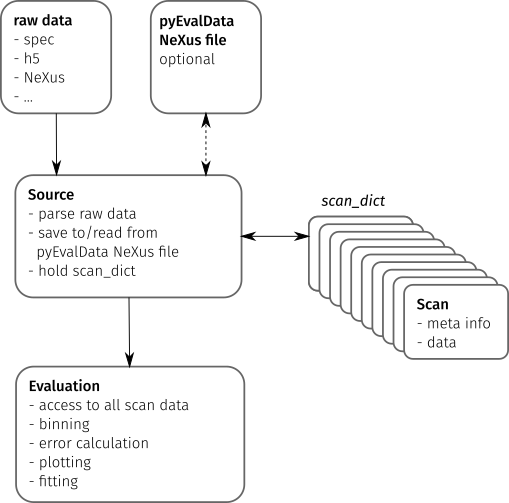
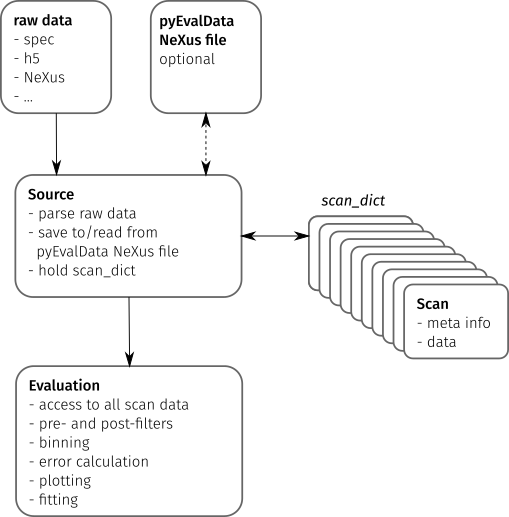
finish user guide

diff --git a/docs/source/conf.py b/docs/source/conf.py
@@ -60,6 +60,7 @@ templates_path = ['_templates']
 source_suffix = ['.rst', '.md']
 
 jupyter_execute_notebooks = "auto"
+execution_excludepatterns = ['*.ipynb']
 
 suppress_warnings = ['myst.mathjax']
 
@@ -84,7 +85,7 @@ pygments_style = 'sphinx'
 
 # -- Options for HTML output -------------------------------------------------
 
-html_title = 'pyEvalData<br/>' + version
+html_title = 'pyEvalData ' + version
 
 # The theme to use for HTML and HTML Help pages.  See the documentation for
 # a list of builtin themes.

diff --git a/pyEvalData/io/__init__.py b/pyEvalData/io/__init__.py
@@ -4,4 +4,4 @@ from .spec import Spec
 from .sardana_nexus import SardanaNeXus
 from .palxfel import PalH5
 
-__all__ = ['Source', 'Scan', 'Spec', 'SardanaNeXus', 'PalH5']
+__all__ = ['Scan', 'Source', 'Spec', 'SardanaNeXus', 'PalH5']

diff --git a/docs/source/user_guide.md b/docs/source/user_guide.md
@@ -2,18 +2,19 @@
 
 The idea of the `pyEvalData` module is to provide a simple but yet flexible way
 for reading and evaluating scientific data acquired at synchrotrons, FELs, or
-in the lab.  
-It is written with the intend to reuse available code as much as possible and
-to simplify the access to complex data formats and very general evaluation and 
-analysis procedures.  
-Generally, students and scientists should focus on data interpretation rather
-than on scripting the same routines again and again.
+in the lab. It is written with the intend to reuse available code as much as
+possible and to simplify the access to complex data formats and very general
+evaluation and analysis procedures. Generally, students and scientists should
+focus on data interpretation rather than on scripting the same routines again
+and again.
 
 Please read the upcoming section to understand the concept of reading and
 evaluating data with `pyEvalData` and how to extend/configure the module to
 your needs.
 
-It is also strongly recommended to follow the [examples](examples).
+It is also strongly recommended to follow the [examples](examples) which can
+also be run locally as `jupyter` notebooks. More details can be found in the
+[API documentation](api) of the individual sub-modules and classes.
 
 ## General Concepts
 
@@ -47,14 +48,15 @@ The actual data for a scan must be read by an independent method.
 The scan meta information and possibly also the scan data are stored in a
 `Scan` object, which provides a general but flexible interface between the
 `Source` and `Evaluation` classes. All `Scan` objects of a raw data source are
-stored in the `scan_dict` of the `Source` object.
+stored in the `scan_dict` attribute of the `Source` object.
 
 The `pyEvalData` modules provides several build-in `Source` classes, e.g. for 
 [spec](https://certif.com/content/spec/),
 [hdf5](https://www.hdfgroup.org/solutions/hdf5/), and
 [NeXus](https://www.nexusformat.org/) files. It can be easily extended by the
-user as explained in the [write your own `Source` section](#write-your-own-source).
-It is highly appreciated if such `Source` plugins are shared with the community.
+user as explained in the
+[write your own `Source` section](#write-your-own-source).
+It is highly appreciated if new `Source` plugins are shared with the community.
 
 In a future release, it will be possible to join two or multiple `Source`
 classes to create a `CompositeSource` object. This will be helpful to read
@@ -67,7 +69,7 @@ points in the scan file.
 
 A rather general feature of the `pyEvalData` module is the usage of a
 [NeXus](https://www.nexusformat.org/) file for converting the raw data in a
-common, structured, fast, and compressed data format. If enabled, the use can
+common, structured, fast, and compressed data format. If enabled, the user can
 benefit from:
 - a single data file containing all raw data - easy portability
 - high degree of compression - saves disk space
@@ -76,8 +78,97 @@ benefit from:
 
 ### Evaluation
 
-The `Evaluation` class requires any kind of `Source` on initialization.
+The `Evaluation` class requires any kind of `Source` on initialization. Hence
+it has access to all available scans in the `scan_dict`. In addition to all
+available meta information and raw data, it allows for defining additional
+`counters` by user-defined algebraic expression, which can also handle nested
+expressions. 
+
+Variable injection of pre- and post-filter for the raw and evaluated data,
+respectively, enables to simplify common procedures such as outlier removal,
+offset removal, or normalization. In a future release, the filters will be
+provided as dedicated objects inheriting from a base `Filter` class. It will be
+possible to concatenate multiple filters and again a set of common filters will
+be available in the `pyEvalData` module, while adding new user-defined filters
+is explained in the [write your own `Filter` section](#write-your-own-filter).
+
+Further features of the `Evaluation` is to handle the *averaging* of multiple
+scans. Here, the case of multiple datasets with different $x$-grids is a very
+common but yet complex scenario. The `Evaluation` class will **never**
+interpolate any data, because one should avoid the *generation* of data-points.
+Instead, the data will be always *binned* onto an automatically-generated or
+user-defined $x$-grid. The underlying algorithm take also care of the correct
+error-calculations and can handle error-propagation as well as
+[Possion statistics](https://en.wikipedia.org/wiki/Poisson_distribution)
+as required for 
+[single-photon-counting](https://en.wikipedia.org/wiki/Photon_counting) data.
+
+Finally, the evaluated data can be easily plotted as well as fitted based on
+the [`matplotlib`](https://matplotlib.org/) and
+[`lmfit`](https://lmfit.github.io/lmfit-py/) modules. As a very common task it
+is easily possible to do the plotting and fitting for a sequence of one or
+multiple scans in dependence of an external parameter, such as a temperature
+series or alike.
 
 ## Write your own `Source`
 
+All you need to do is to define your own class which inherits from the `Source`
+class of the `pyEvalData` module. You can do so also directly in your
+evaluation script following this example containing some pseudo-code.
+
+```python
+import pyEvalData as ped
+
+class MyDataSource(ped.io.Source):
+    """MyDataSource
+
+    Here you should copy and adapt the doctring from the ``Source`` class for
+    proper documentation
+
+    """    
+    def __init__(self, file_name, file_path='./', **kwargs):
+        super().__init__(file_name, file_path, **kwargs)
+
+    def parse_raw(self):
+        """parse_raw
+
+        Parse the raw source file/folder and populate the `scan_dict`.
+
+        """
+        raw_scans = parse_my_raw_data(self.file_name, self.file_path)
+        for rs in raw_scans:
+            # create the Scan from the meta information
+            scan = ped.io.Scan(int(rs.nr),
+                               cmd=rs.command,
+                               date=rs.date,
+                               time=rs.time,
+                               int_time=rs.int_time,
+                               header=rs.header,
+                               init_mopo=rs.init_motor_pos)
+            # store the scan in the scan_dict
+            self.scan_dict[spec_scan.nr] = scan
+
+            # check if the data needs to be read as well, if not it will be
+            # read on demand later
+            if self.read_all_data:
+                self.read_scan_data(self.scan_dict[spec_scan.nr])
+
+    def read_raw_scan_data(self, scan):
+        """read_raw_scan_data
+
+        Reads the data for a given scan object from raw source.
+
+        Args:
+            scan (Scan): scan object.
+
+        """
+        # read the actual data
+        raw_scan_data = read_my_raw_scan_data(scan.number)
+        # set the data of the scan object
+        scan.data = raw_scan_data
+
+```
+
 ## Write your own `Filter`
+
+comming soon ...

diff --git a/README.md b/README.md
@@ -1,16 +1,16 @@
 # Welcome to pyEvalData
 
-This is a Python module to read and evaluate experimental data.
-It can handle raw data from different sources such as
+This is a Python module to read and evaluate experimental data. It can handle
+raw data from different sources such as
 [spec](https://certif.com/content/spec/),
 [hdf5](https://www.hdfgroup.org/solutions/hdf5/),
 [NeXus](https://www.nexusformat.org/) files which are common data formats at
-synchrotrons, FELs, as well as in a growing number of laboratories.
-The evaluation provides common functionalities such as binning,
-error calculation, and advanced data manipulation via algebraic expressions as
-well as pre- and post-data-filters.
-Furthermore, advanced wrapper functions allow for plotting and fitting
-sequences of one or multiple scans in dependence of an external parameter.
+synchrotrons, FELs, as well as in a growing number of laboratories. The
+evaluation provides common functionalities such as binning, error calculation,
+and advanced data manipulation via algebraic expressions as well as pre- and
+post-data-filters. Furthermore, advanced wrapper functions allow for plotting
+and fitting sequences of one or multiple scans in dependence of an external
+parameter.
 
 A minimal code example would look like this:
 
@@ -27,7 +27,9 @@ ev.clist = ['ct1', 'ct2', 'ct1/ct2']
 ev.plot_scans([1, 2, 3])
 ```
 
-Please follow the [user guide](https://pyevaldata.readthedocs.io/en/latest/user_guide.html) and [examples](https://pyevaldata.readthedocs.io/en/latest/examples.html) for your first steps with `pyEvalData`.
+Please follow the [user guide](https://pyevaldata.readthedocs.io/en/latest/user_guide.html)
+and [examples](https://pyevaldata.readthedocs.io/en/latest/examples.html) for
+your first steps with `pyEvalData`.
 
 ## Features
 
@@ -38,7 +40,7 @@ Please follow the [user guide](https://pyevaldata.readthedocs.io/en/latest/user_
   * user-defined text files
   * camera images (Dectris Pilatus, Princeton MTE, Greateyes, ...)
   * composite sources
-- easy implementation of new raw data formats using an `interface class`
+- easy implementation of new raw-data formats using an `interface class`
 - common methods for plotting and fitting of experimental data, including:
   * data binning
   * error calculation
@@ -70,7 +72,7 @@ Optionally, you can also let pip install directly from the repository:
 
     $ pip install git+https://github.com/dschick/pyEvalData.git
 
-You can have the following optional installation to enable unit tests, as well
+You can have the following optional installations to enable unit tests, as well
 as building the documentation:
 
     $ pip install pyEvalData[testing]
